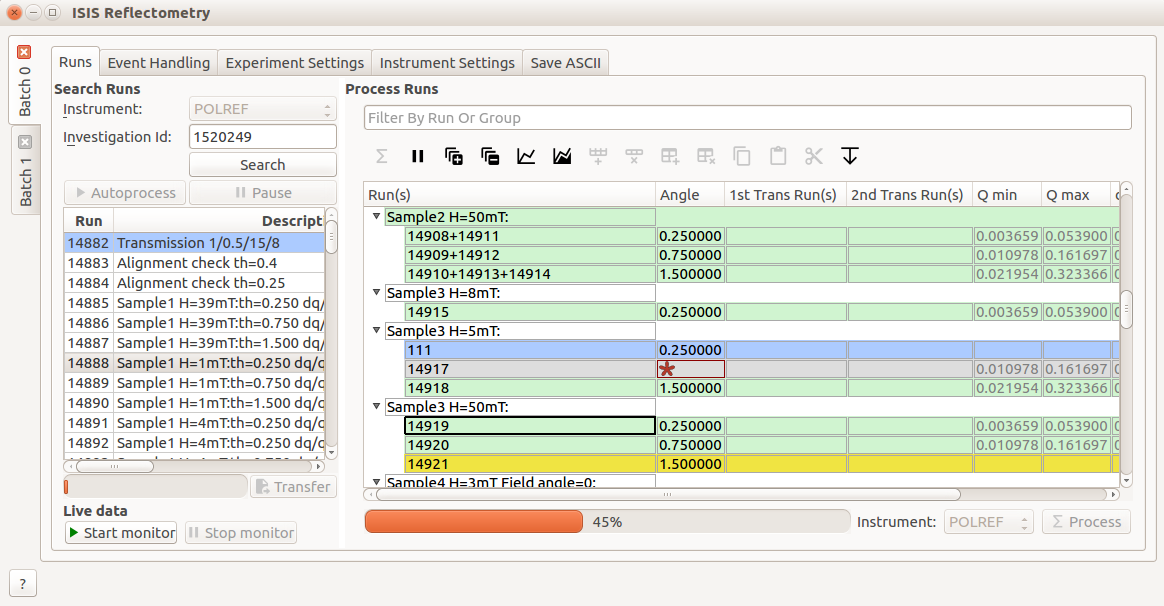
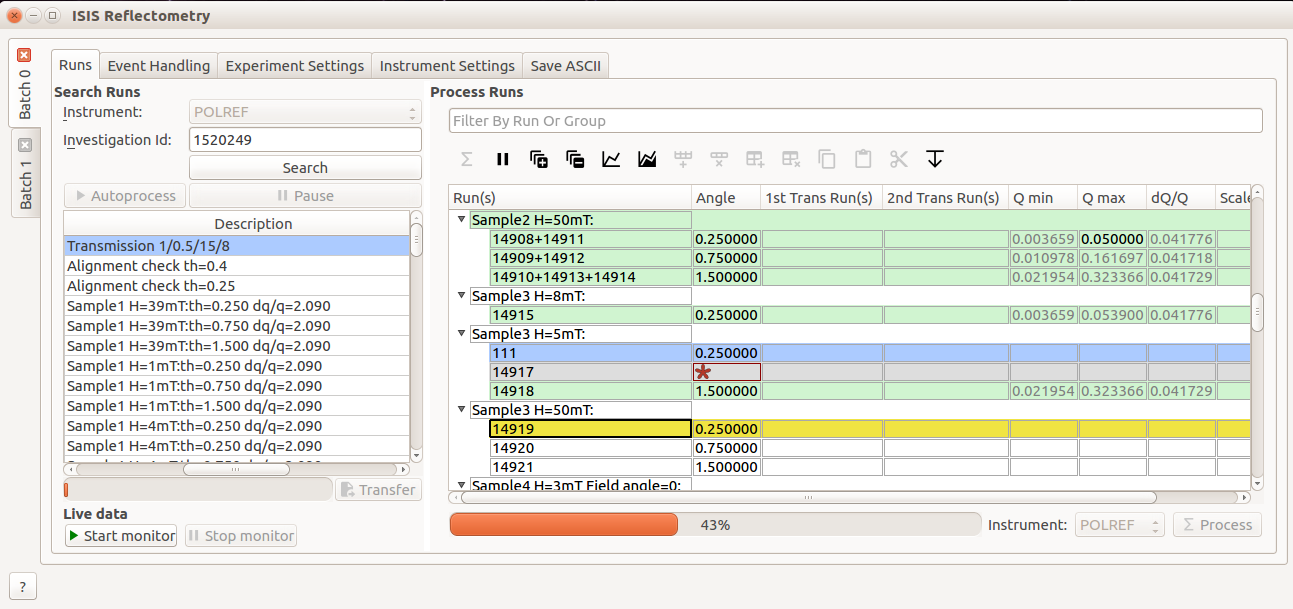
Update settings tabs text and screenshots
Re #26282

Changed region(s): [[0.0, 0.0, 1.0, 0.9208], [0.0, 0.9505, 0.0309, 0.9802]]

diff --git a/docs/source/interfaces/ISIS Reflectometry.rst b/docs/source/interfaces/ISIS Reflectometry.rst
@@ -196,7 +196,7 @@ second set in the processing table in another batch, and update the settings in
 each batch accordingly. The interface will use the settings from the relevant
 batch to reduce runs in that batch's processing table.
 
-Menu bar
+Menu Bar
 ~~~~~~~~
 
 The main menu currently just contains options for managing batches via the
@@ -208,7 +208,7 @@ The main menu currently just contains options for managing batches via the
 | New              | Add a new Batch tab                                      |
 +------------------+----------------------------------------------------------+
 
-Runs tab
+Runs Tab
 ~~~~~~~~
 
 This section describes the different elements in the *Runs* tab.
@@ -249,7 +249,7 @@ selection it will show the percentage of that selection that is complete.
 
 .. figure:: /images/ISISReflectometryInterface/processing_table.png
   :class: screenshot
-  :width: 700px
+  :width: 800px
   :align: center
   :alt: The processing table
 
@@ -500,7 +500,7 @@ behaviour of this is as follows:
   in the format, ``123+124+125``.
 - Rows within a group will be sorted by angle.
 
-Failed transfers
+Failed Transfers
 ================
 
 When transferring a run from the Search table to the Processing table there may
@@ -618,27 +618,29 @@ Live data monitoring has the following requirements:
 - The instrument must be on IBEX or have additional processes installed to supply the EPICS values. If it does not, you will get an error that live values could not be found for `Theta` and the slits.
 
 
-Event Handling tab
+Event Handling Tab
 ~~~~~~~~~~~~~~~~~~
 
-.. figure:: /images/ISISReflectometryPolref_event_handling_tab.png
-   :alt: Showing view of the settings tab.
+.. figure:: /images/ISISReflectometryInterface/event_handling_tab.png
+  :class: screenshot
+  :width: 700px
+  :align: center
+  :alt: The event handling tab
 
-The *Event Handling* tab can be used to analyze event workspaces. It contains four text boxes for
+  *The event handling tab*
+
+The ``Event Handling`` tab can be used to analyze event workspaces. It contains four text boxes for
 specifying uniform even, uniform, custom and log value slicing respectively. Each of these slicing
 options are exclusive, no more than one can be applied. If the text box for the selected slicing
 method is empty no event analysis will be performed, runs will be loaded using
 :ref:`LoadISISNexus <algm-LoadISISNexus>` and analyzed as histogram workspaces. When this text box
 is not empty, runs will be loaded using :ref:`LoadEventNexus <algm-LoadEventNexus>` and the
 interface will try to parse the user input to obtain a set of start and stop values. These define
-different time slices that will be passed on to an appropriate filtering algorithm
-(:ref:`FilterByTime <algm-FilterByTime>` for uniform even, uniform and custom slicing,
-:ref:`FilterByLogValue <algm-FilterByLogValue>` for log value slicing). Each time slice will be
+different time slices that will be passed on to the filtering algorithms
+(:ref:`GenerateEventsFilter <algm-GenerateEventsFilter>` and :ref:`FilterEvents <algm-FilterEvents>`). Each time slice will be
 normalized by the total proton charge and reduced as described in the previous section. Note that,
-if any of the runs in a group could not be loaded as an event workspace, the interface will load
-the runs within that group as histogram workspaces and no event analysis will be performed for that
-group. A warning message will be shown when the reduction is complete indicating that some groups
-could not be processed as event data.
+if any of the runs in a group could not be loaded as an event workspace, you will get an error message
+and the reduction will not be performed.
 
 The four slicing options are described in more detail below:
 
@@ -664,51 +666,67 @@ The four slicing options are described in more detail below:
     ``200`` seconds after the start of the run, and the second one starting at ``200`` seconds
     and ending at ``300`` seconds.
 
-- **LogValue** - Like custom slicing this takes a list of comma-separated numbers and are parsed
-  in the same manner as shown above. The values however indicate the minimum and maximum values of
-  the logs we wish to filter rather than times. In addition, this takes a second entry 'Log Name'
+- **LogValue** - This takes a single value which is the log value interval, and also the log name
   which is the name of the log we wish to filter the run for. For example, given a run and entries
-  of ``100, 200, 300`` and ``proton_charge`` for slicing values and log name respectively, we would
-  produce two slices - the first containing all log values between ``100`` and ``200`` seconds, the
-  second containing all log values between ``200`` and ``300`` seconds.
+  of ``100`` and ``proton_charge`` for slicing values and log name respectively, we would
+  produce a number of slices each with interval ``100``.
 
-Workspaces will be named according to the index of the slice, e.g ``IvsQ_13460_slice_0``, ``IvsQ_13460_slice_1``, etc.
+Workspaces will be named with a suffix providing information about the slice, e.g
+``IvsQ_13460_slice_50_75``, ``IvsQ_13460_slice_75_100``, etc.
 
-Settings tab
-~~~~~~~~~~~~
+Experiment and Instrument Settings Tabs
+~~~~~~~~~~~~~~~~~~~~~~~~~~~~~~~~~~~~~~~
 
-.. figure:: /images/ISISReflectometryPolref_settings_tab.png
-   :alt: Showing view of the settings tab.
+.. figure:: /images/ISISReflectometryInterface/experiment_settings_tab.png
+  :class: screenshot
+  :width: 700px
+  :align: center
+  :alt: The experiment settings tab
 
-The *Settings* tab can be used to specify options for the reduction and post-processing.
-These options are used by the interface to provide argument values for the pre-processing,
-processing and post-processing algorithms. Each of these respectively refer to the
-following algorithms:
+  *The experiment Settings tab*
 
-- :ref:`CreateTransmissionWorkspaceAuto <algm-CreateTransmissionWorkspaceAuto>`
-  (applied to **Transmission Run(s)**).
-- :ref:`ReflectometryReductionOneAuto <algm-ReflectometryReductionOneAuto>`, main reduction algorithm.
-- :ref:`Stitch1DMany <algm-Stitch1DMany>` (note that at least a bin width must be
-  specified for this algorithm to run successfully, for instance *Params="-0.03"*).
+The ``Experiment Settings`` and ``Instrument Settings`` tabs can be used to
+specify options for the reduction and post-processing releting to a specific
+experiment. The Experiment settings are variables that are mostly set by the
+user, whereas the ``Instrument Settings`` are variables relating to the
+instrument used to perform the reduction. Both are populated with default
+values for the current instrument. The ``Restore Defaults`` button allows you
+to revert the settings to the default values for the instrument.
 
-Note that when conflicting options are specified for the reduction, i.e. different
-values for the same property are specified via the *Settings* tab and the **Options**
-column in the *Runs* tab, the latter will prevail. Therefore, the **ReflectometryReductionOneAuto**
-settings should be used to specify global options that will be applied to all the
-rows in the table, whereas the **Options** column will only be applicable to the
-specific row for which those options are defined.
+The majority of these options are used by the interface to provide argument
+values for the pre-processing and reduction steps, which are handled by the
+algorithm: :ref:`ReflectometryISISLoadAndProcess
+<algm-ReflectometryISISLoadAndProcess>`
 
-The *Settings* tab is split into two sections, **Experiment settings** and **Instrument
-settings**. The former refers to variables set mostly by the user, while the latter
-refers to variables set by the instrument used to perform the reduction. Both have
-a **Get Defaults** button that fills some of the variables with default values.
-For experiment settings, these are pulled from the **ReflectometryReductionOneAuto**
-algorithm whereas for instrument settings, they are pulled from the current instrument
-being used in the run.
+The exception is ``Output Stitch Params``, which is used for the final
+stitching done by the algorithm :ref:`Stitch1DMany <algm-Stitch1DMany>`. Note
+however that if a bin width is not provided, for instance ``Params="-0.03"``,
+then ``-dQ/Q`` will be used, if specified; otherwise a default value will be
+calculated from the slits, if possible.
 
-If either the *Experiment* or the *Instrument* settings sections are unchecked, this will disable
-all the of the entries for each respective section. In addition, the reduction will not make use of
-the values from any of the disabled entries.
+The **Experiment Settings** tab allows some options to be specified on a
+per-angle basis, that is, to specify defaults that will apply only to runs with
+a specific angle. Note that matching angles are searched for within a tolerance
+of ``0.01``. In the per-angle defaults table, you can also specify a "wildcard"
+row, which will apply to all runs that don't also have a matching angle - just
+leave the angle blank to create a wildcard row. Only one wildcard row may
+exist.
+
+.. figure:: /images/ISISReflectometryInterface/workflow_settings.png
+  :class: screenshot
+  :width: 800px
+  :align: center
+  :alt: The per-angle defaults table
+
+  *The per-angle defaults table*
+  
+Note that when conflicting options are specified for the reduction,
+i.e. different values for the same property are specified via one of the
+settings tabs and the cells in the *Runs* tab, the latter will take
+precedence. Therefore, the Settings tabs should be used to specify
+global options that will be applied to all the rows in the table, whereas the
+row values will only be applicable to the specific row for which those options
+are defined.
 
 Save ASCII tab
 ~~~~~~~~~~~~~~

diff --git a/docs/source/release/v4.1.0/reflectometry.rst b/docs/source/release/v4.1.0/reflectometry.rst
@@ -127,7 +127,7 @@ Additional keyboard shortcuts have been added to aid navigation/editing in the r
 Processing and highlighting
 ^^^^^^^^^^^^^^^^^^^^^^^^^^^
 
-.. figure:: ../../images/ISISReflectometryInterface/row_highlighting.png
+.. figure:: ../../images/ISISReflectometryInterface/processing_table.png
   :class: screenshot
   :width: 650px
   :align: center
